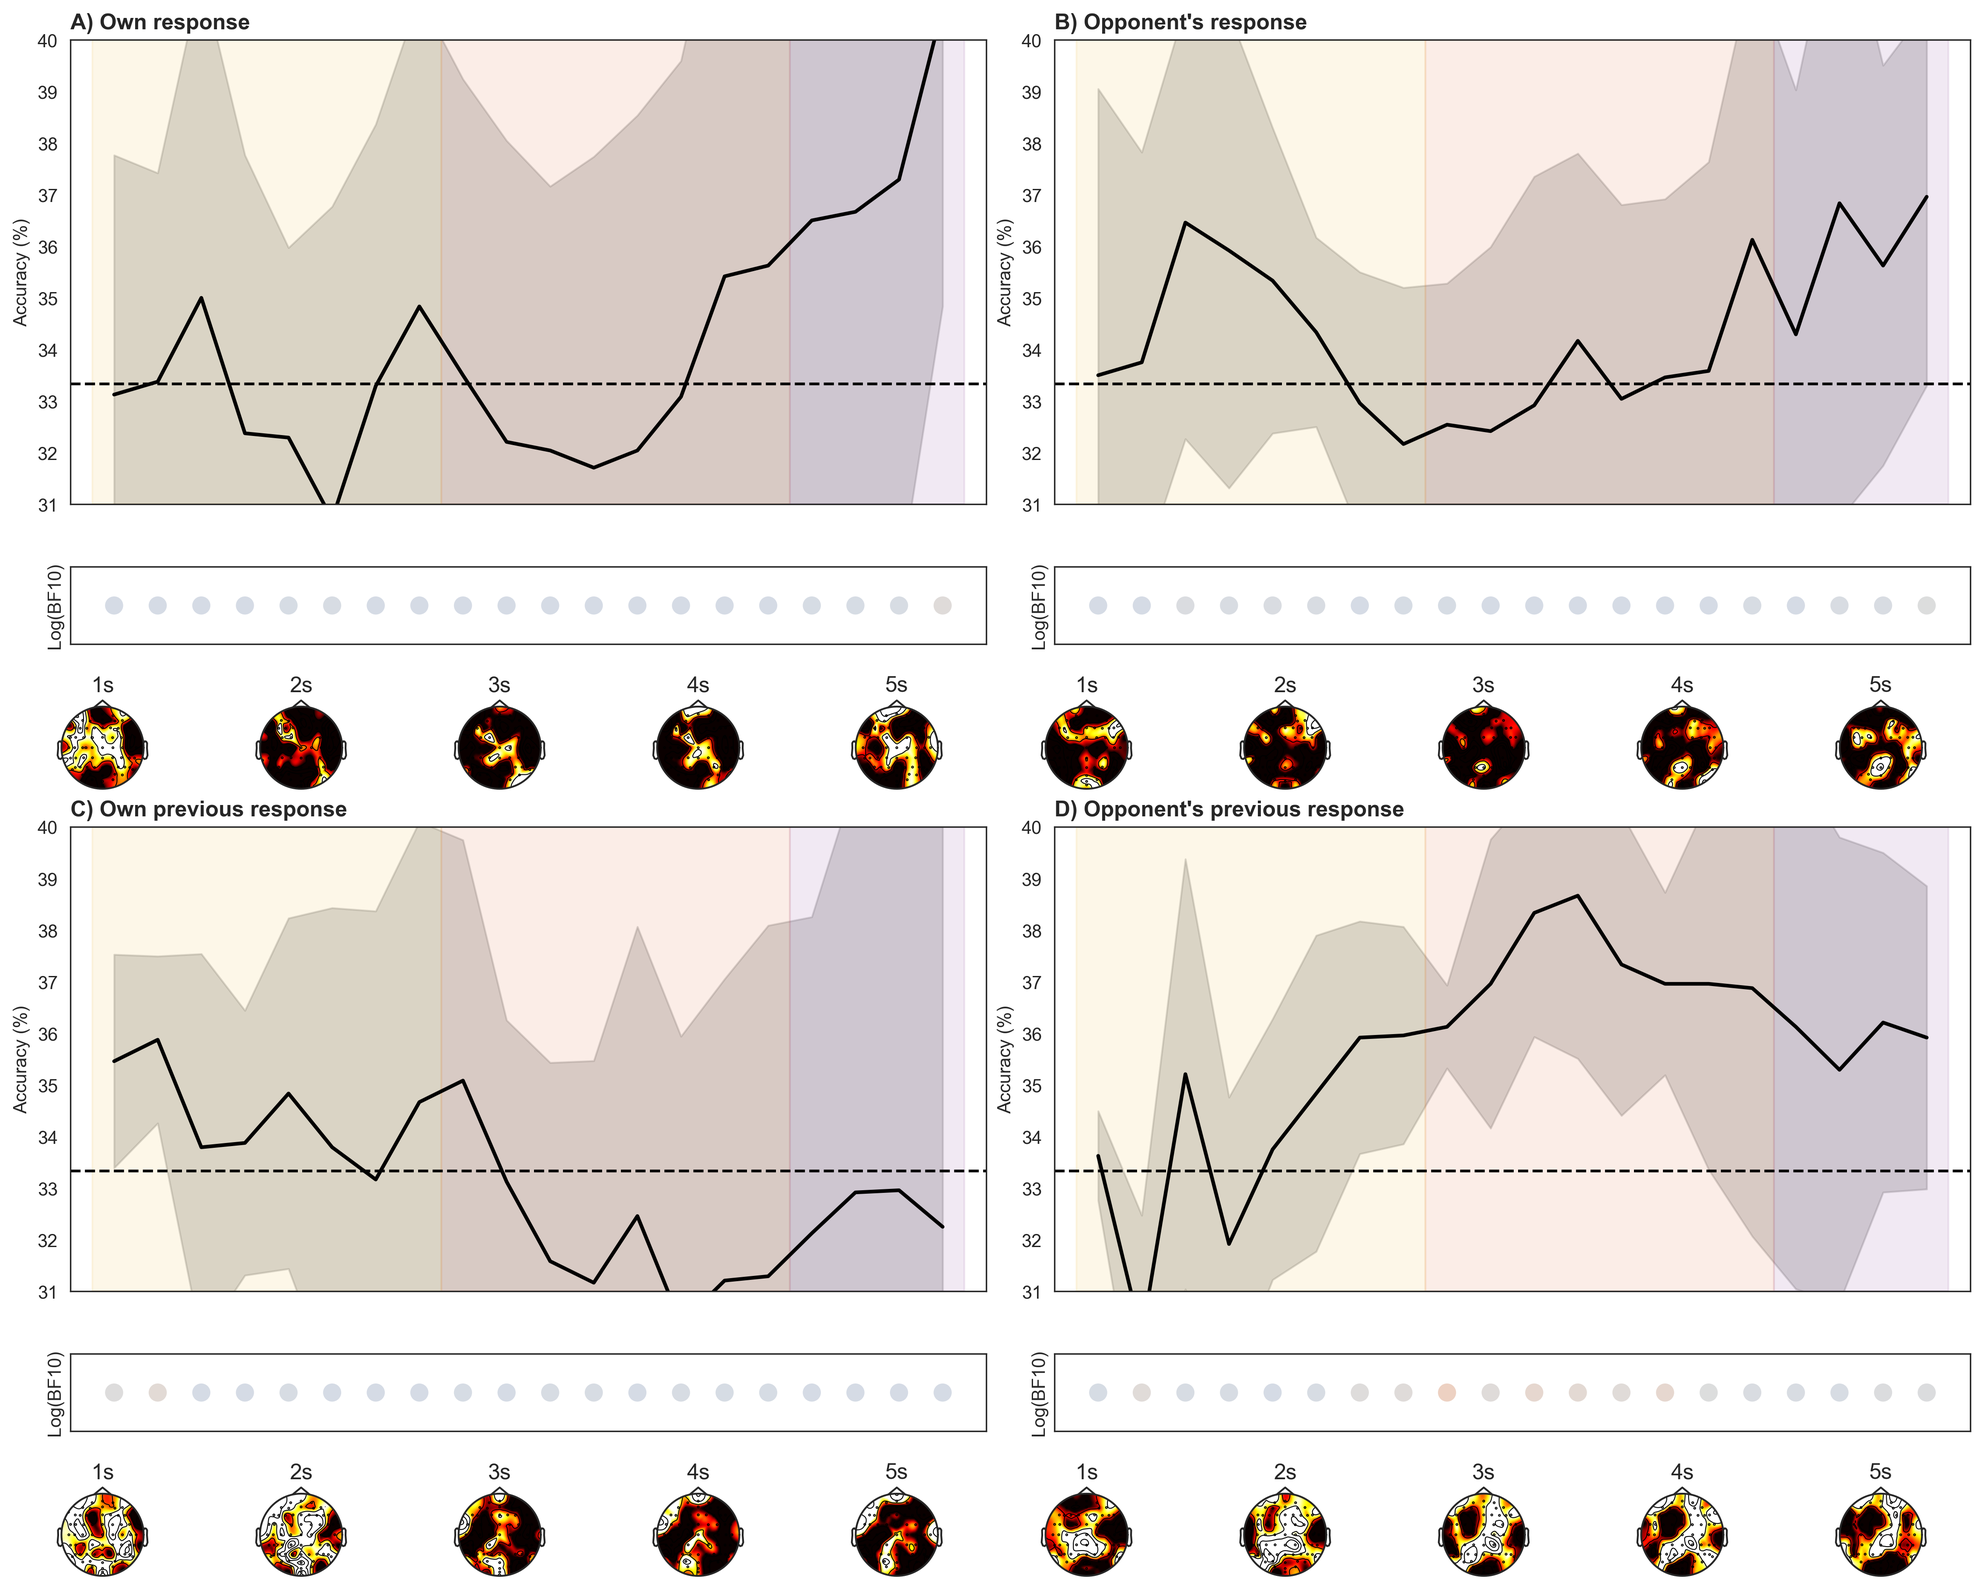
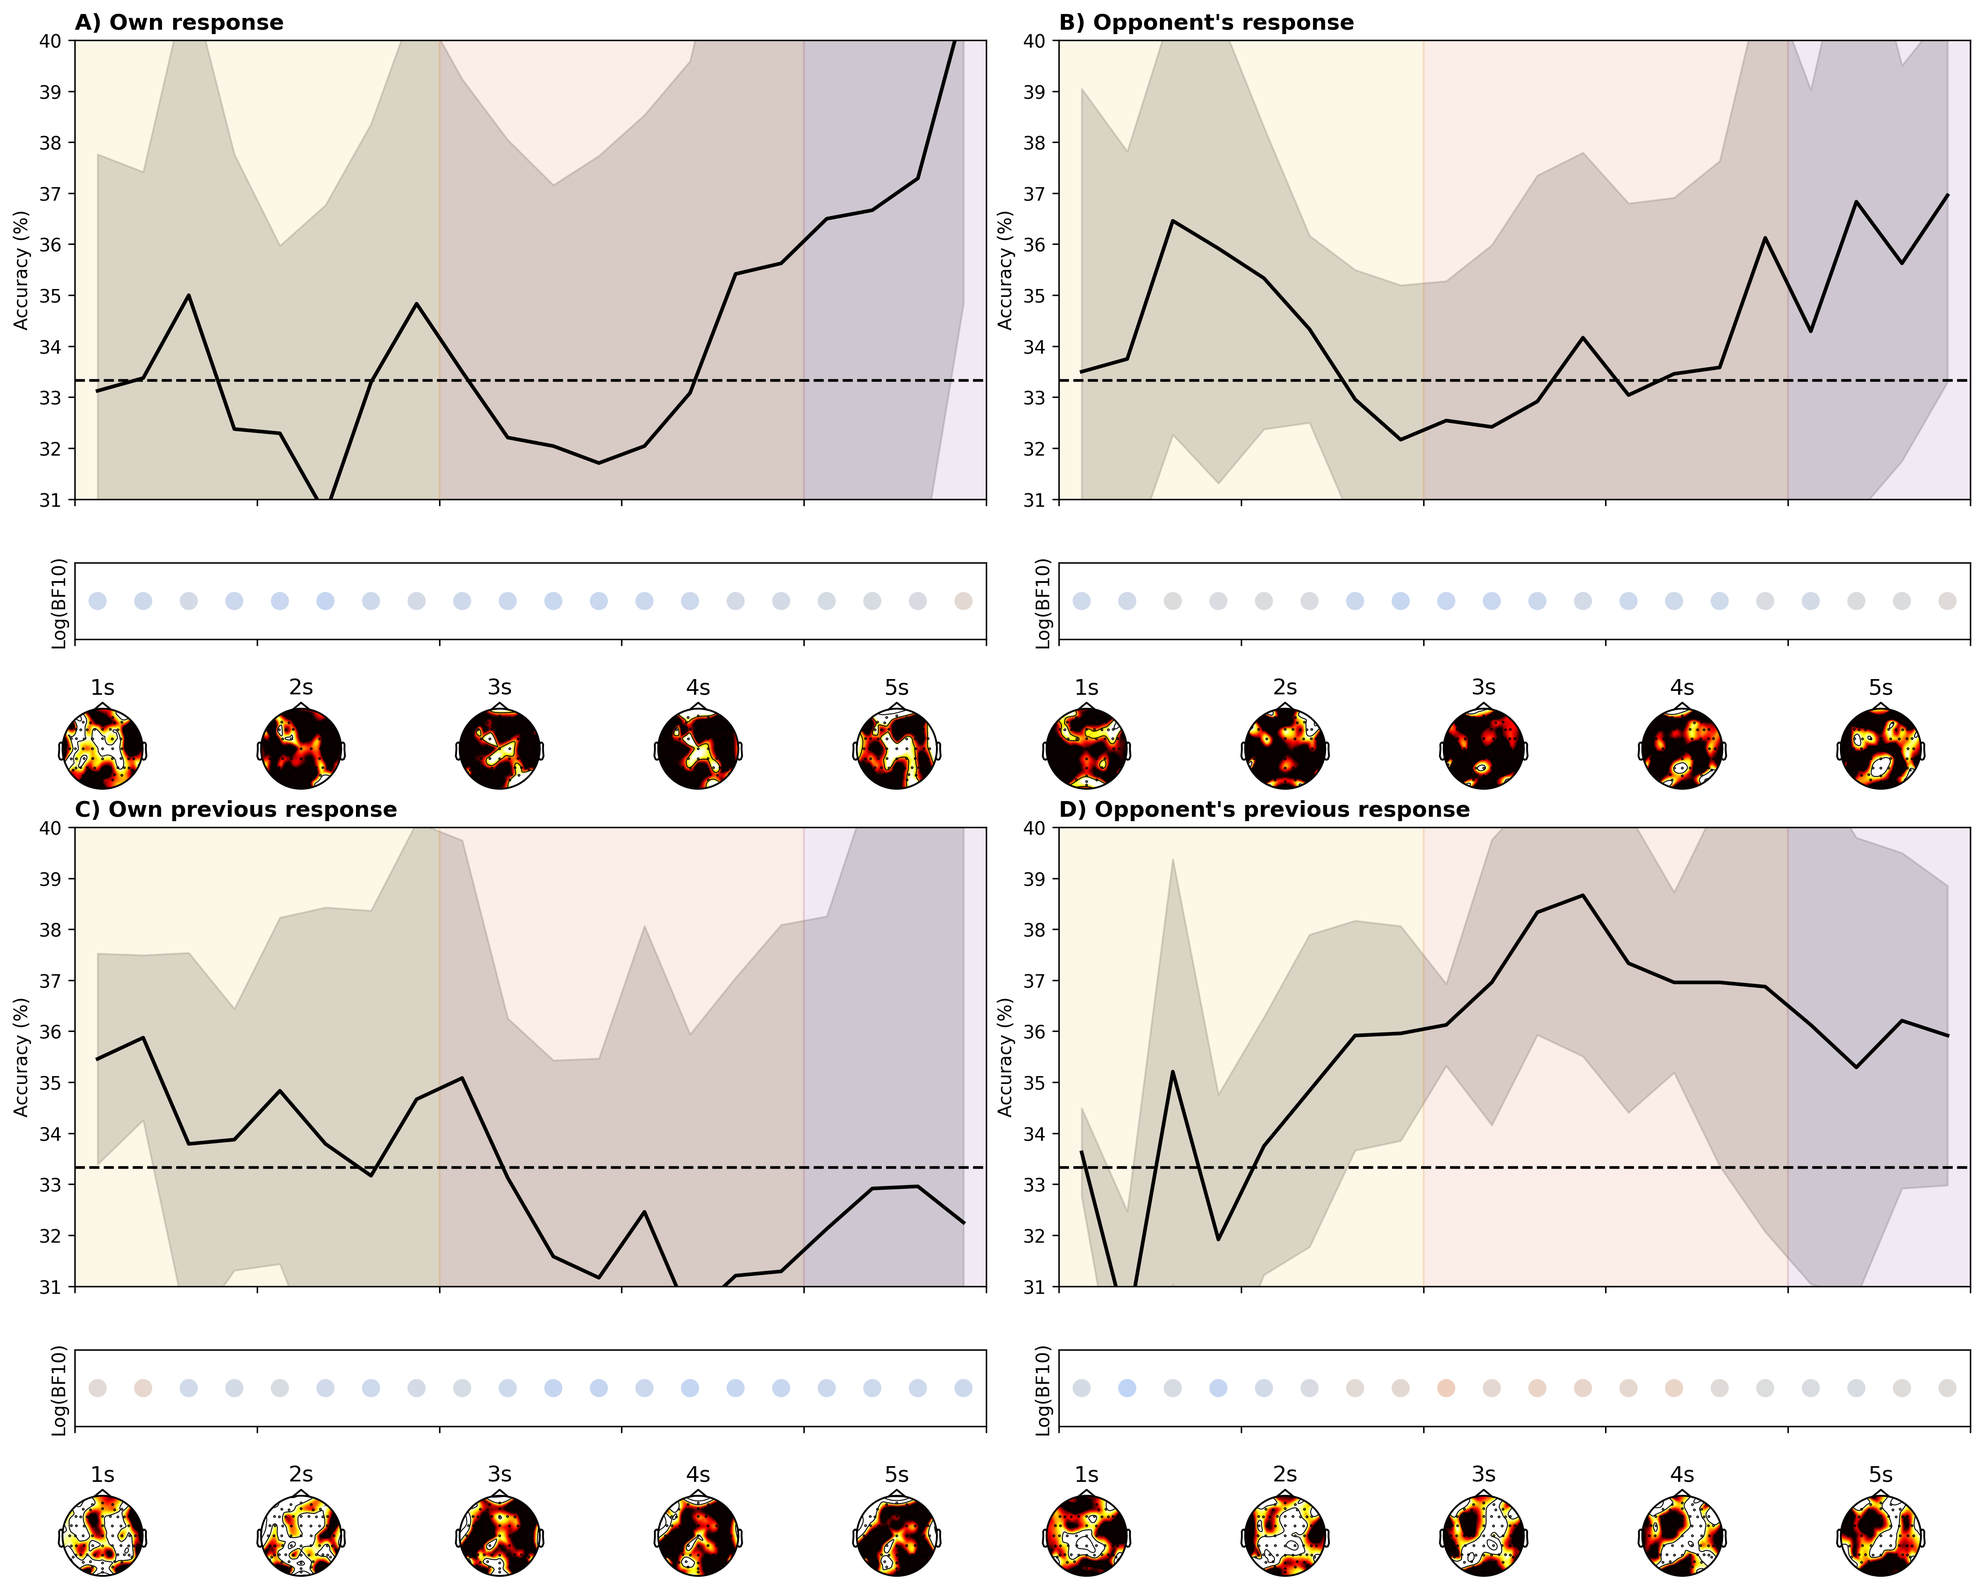
Implemented R/Bayes figures and output

diff --git a/step3b_plot_Fig2_Fig3.py b/step3b_plot_Fig2_Fig3.py
@@ -1,17 +1,39 @@
 """
 Plot Decoding Results and Compute Bayes Factors
-Replicates the 2x2 grid layout, phase shading, and time-bin topographies from the paper.
+Replicates the grid layout, time-bin topographies, and directional Bayes Factors.
+Uses rpy2 with modern conversion; falls back to pingouin if R/BayesFactor not available.
 """
 
 import os
+# Set R_HOME explicitly (adjust path to your R installation)
+os.environ['R_HOME'] = r'C:\Program Files\R\R-4.5.2'  # <-- change if needed
+
 import pickle
 import numpy as np
 import pandas as pd
 import matplotlib.pyplot as plt
 import matplotlib.gridspec as gridspec
-import pingouin as pg
 import mne
-from scipy import stats
+import warnings
+
+# Try to set up rpy2 and test if R is callable
+R_AVAILABLE = False
+try:
+    import rpy2.robjects as robjects
+    from rpy2.robjects.packages import importr
+    from rpy2.robjects import numpy2ri
+    conv = numpy2ri.converter
+
+    # Test if R is actually reachable by running a simple command
+    robjects.r('version')  # should not raise an error
+    # Now try to import BayesFactor
+    bf_pkg = importr('BayesFactor')
+    R_AVAILABLE = True
+    print("R and BayesFactor package found – using exact Bayes factors.")
+except Exception as e:
+    R_AVAILABLE = False
+    print(f"R/BayesFactor not available ({e}). Using pingouin approximation.")
+    import pingouin as pg
 
 path_to_data = 'project/ds006761'
 plot_dir = os.path.join(path_to_data, 'derivatives', 'plots')
@@ -21,173 +43,186 @@ pair_ids = list(range(1, 10)) + list(range(11, 23)) + list(range(25, 35))
 num_tests = 4
 num_time_bins = 20
 
+def calc_bayes_factor(data, mu=1/3, rscale="medium", null_interval="c(0.5, Inf)"):
+    """Exact directional Bayes factor using R's BayesFactor (modern rpy2)."""
+    if not R_AVAILABLE:
+        from scipy import stats
+        t_stat, _ = stats.ttest_1samp(data, mu)
+        return pg.bayesfactor_ttest(t_stat, nx=len(data), r=rscale)
+
+    try:
+        with conv.context():
+            robjects.globalenv['data'] = data
+            robjects.r(f'bf = BayesFactor::ttestBF(x=data, mu={mu}, rscale="{rscale}", nullInterval={null_interval})')
+            bf_val = robjects.r('as.vector(bf[1])')[0]
+        return float(bf_val)
+    except Exception as e:
+        warnings.warn(f"R call failed, falling back to pingouin: {e}")
+        from scipy import stats
+        t_stat, _ = stats.ttest_1samp(data, mu)
+        return pg.bayesfactor_ttest(t_stat, nx=len(data), r=rscale)
+
+def calc_bayes_factor_ind(data_win, data_los, rscale="medium", null_interval="c(-0.5, 0.5)"):
+    """Two-sample Bayes factor for winners vs losers."""
+    if not R_AVAILABLE:
+        from scipy import stats
+        t_stat, _ = stats.ttest_ind(data_win, data_los)
+        return pg.bayesfactor_ttest(t_stat, nx=len(data_win), ny=len(data_los), r=rscale)
+
+    try:
+        with conv.context():
+            robjects.globalenv['data_win'] = data_win
+            robjects.globalenv['data_los'] = data_los
+            robjects.r(f'bf = BayesFactor::ttestBF(x=data_win, y=data_los, rscale="{rscale}", nullInterval={null_interval})')
+            bf_val = robjects.r('as.vector(bf[2])')[0]  # second element = complement of interval
+        return float(bf_val)
+    except Exception as e:
+        warnings.warn(f"R call failed, falling back to pingouin: {e}")
+        from scipy import stats
+        t_stat, _ = stats.ttest_ind(data_win, data_los)
+        return pg.bayesfactor_ttest(t_stat, nx=len(data_win), ny=len(data_los), r=rscale)
+
 def plot_decoding(max_pairs=None):
     pairs_to_run = pair_ids[:max_pairs] if max_pairs is not None else pair_ids
     num_pairs_run = len(pairs_to_run)
     
     all_decoding = np.full((num_pairs_run * 2, num_tests, num_time_bins), np.nan)
     searchlight_all = np.full((num_pairs_run * 2, num_tests, 64, num_time_bins), np.nan)
+    winners_idx, losers_idx = [], []
     
-    winners_idx = []
-    losers_idx = []
-    
-    # Load decoding data and identify winners/losers
     for p_idx, pair in enumerate(pairs_to_run):
-        # Determine Winner/Loser
         events_file = os.path.join(path_to_data, f'sub-{pair:02d}', 'eeg', f'sub-{pair:02d}_task-RPS_events.tsv')
         if os.path.exists(events_file):
             events = pd.read_csv(events_file, sep='\t')
             w1, w2 = sum(events['outcome'] == 2), sum(events['outcome'] == 3)
-            p1_idx = p_idx * 2
-            p2_idx = p_idx * 2 + 1
+            p1_idx, p2_idx = p_idx * 2, p_idx * 2 + 1
             if w1 > w2:
                 winners_idx.append(p1_idx); losers_idx.append(p2_idx)
             else:
-                winners_idx.append(p2_idx); losers_idx.append(p1_idx) # Includes ties gracefully
+                winners_idx.append(p2_idx); losers_idx.append(p1_idx)
         
         for ppt in [1, 2]:
             idx = p_idx * 2 + (ppt - 1)
             file_path = os.path.join(path_to_data, 'derivatives', f'pair-{pair:02d}_player-{ppt}_task-RPS_decoding.pkl')
             if not os.path.exists(file_path): continue
-                
             with open(file_path, 'rb') as f: res = pickle.load(f)
             for t_idx in range(num_tests):
                 all_decoding[idx, t_idx, :] = res['decoding'][t_idx]
                 searchlight_all[idx, t_idx, :, :] = res['searchlight'][t_idx]
 
-    # Pre-calculate Topomap template to avoid errors
     montage = mne.channels.make_standard_montage('biosemi64')
     info = mne.create_info(ch_names=montage.ch_names[:64], sfreq=256, ch_types='eeg')
     info.set_montage(montage)
 
-    # -------------------------------------------------------------
-    # FIGURE 2: ALL SUBJECTS (2x2 Grid)
-    # -------------------------------------------------------------
+    # FIGURE 2
     fig2 = plt.figure(figsize=(15, 12), layout='constrained')
-    # FIX: Added figure=fig2 to silence the layoutgrids warning
     gs2 = gridspec.GridSpec(2, 2, figure=fig2, hspace=0.3, wspace=0.2)
     titles = ['A) Own response', "B) Opponent's response", 'C) Own previous response', "D) Opponent's previous response"]
     
+    # Correct X-axis for time in seconds (centre of each 250 ms bin)
+    x_axis_time = np.linspace(0.125, 4.875, 20) 
+    
     for t in range(num_tests):
         row, col = t // 2, t % 2
-        inner_gs = gridspec.GridSpecFromSubplotSpec(3, 1, subplot_spec=gs2[row, col], height_ratios=[3, 0.5, 0.8], hspace=0.1)
-        
+        inner_gs = gridspec.GridSpecFromSubplotSpec(3, 1, subplot_spec=gs2[row, col],
+                                                     height_ratios=[3, 0.5, 0.8], hspace=0.1)
         ax_main = fig2.add_subplot(inner_gs[0])
         ax_bf = fig2.add_subplot(inner_gs[1], sharex=ax_main)
         
         data_t = all_decoding[:, t, :]
         data_mean = np.nanmean(data_t * 100, axis=0)
         ci = np.nanstd(data_t * 100, axis=0) / np.sqrt(num_pairs_run * 2) * 1.96
-        x_axis = np.arange(1, 21)
         
-        # 1. Main Axis
         ax_main.axhline(33.33, color='k', linestyle='--')
-        ax_main.plot(x_axis, data_mean, 'k-', linewidth=2)
-        ax_main.fill_between(x_axis, data_mean - ci, data_mean + ci, color='gray', alpha=0.3)
-        ax_main.axvspan(0.5, 8.5, color='#EDB120', alpha=0.1) # Phase A (Decision)
-        ax_main.axvspan(8.5, 16.5, color='#D95319', alpha=0.1) # Phase B (Response)
-        ax_main.axvspan(16.5, 20.5, color='#7E2F8E', alpha=0.1) # Phase C (Feedback)
+        ax_main.plot(x_axis_time, data_mean, 'k-', linewidth=2)
+        ax_main.fill_between(x_axis_time, data_mean - ci, data_mean + ci, color='gray', alpha=0.3)
+        ax_main.axvspan(0, 2, color='#EDB120', alpha=0.1) # Decision
+        ax_main.axvspan(2, 4, color='#D95319', alpha=0.1) # Response
+        ax_main.axvspan(4, 5, color='#7E2F8E', alpha=0.1) # Feedback
         ax_main.set_ylim(31, 40)
         ax_main.set_ylabel('Accuracy (%)')
         ax_main.set_title(titles[t], loc='left', fontweight='bold')
-        ax_main.set_xlim(0, 21)
-        ax_main.set_xticks(np.arange(0.5, 21, 4))
+        ax_main.set_xlim(0, 5)
+        ax_main.set_xticks(np.arange(0, 5.1, 1))
         ax_main.set_xticklabels([])
         
-        # 2. BF Axis
-        bfs = np.ones(num_time_bins) # Changed to np.ones to plot grey when skipped
+        bfs = np.ones(num_time_bins)
         for w in range(num_time_bins):
             slice_w = data_t[:, w][~np.isnan(data_t[:, w])]
             if len(slice_w) > 2:
-                t_stat, _ = stats.ttest_1samp(slice_w, 1/3)
-                bf = pg.bayesfactor_ttest(t_stat, nx=len(slice_w), r=0.707)
-                bfs[w] = bf if isinstance(bf, float) else 1.0
+                bfs[w] = calc_bayes_factor(slice_w)
                 
-        log_bfs = np.log10(bfs)
-        sc = ax_bf.scatter(x_axis, [0]*20, c=log_bfs, cmap='coolwarm', vmin=-6, vmax=6, s=80)
+        sc = ax_bf.scatter(x_axis_time, [0]*20, c=np.log10(bfs), cmap='coolwarm', vmin=-8, vmax=8, s=80)
         ax_bf.set_yticks([])
         ax_bf.set_ylabel('Log(BF10)')
         
-        # 3. Topographies (5 bins)
         topo_gs = gridspec.GridSpecFromSubplotSpec(1, 5, subplot_spec=inner_gs[2], wspace=0.05)
         sl_mean = np.nanmean(searchlight_all[:, t, :, :], axis=0)
-        timebins = [(0, 4), (4, 8), (8, 12), (12, 16), (16, 20)] # 1-second chunks
+        timebins = [(0, 4), (4, 8), (8, 12), (12, 16), (16, 20)] 
         
         for idx, (t_start, t_end) in enumerate(timebins):
             ax_topo = fig2.add_subplot(topo_gs[0, idx])
             topo_data = np.nanmean(sl_mean[:, t_start:t_end], axis=1)
-            mne.viz.plot_topomap(topo_data, info, axes=ax_topo, show=False, vlim=(0.33, 0.36), cmap='hot')
+            mne.viz.plot_topomap(topo_data, info, axes=ax_topo, show=False, vlim=(0.33, 0.36), 
+                                 cmap='hot', extrapolate='box', sphere=(0.0, 0.0, 0.0, 0.095))
             ax_topo.set_title(f'{idx+1}s', pad=0)
 
     plt.savefig(os.path.join(plot_dir, 'Figure2.png'), dpi=300, bbox_inches='tight')
-    print("Figure 2 saved.")
 
-    # -------------------------------------------------------------
-    # FIGURE 3: WINNERS VS LOSERS
-    # -------------------------------------------------------------
-    if len(winners_idx) >= 1: # Lowered threshold to plot even with subset testing
+    # FIGURE 3
+    if len(winners_idx) >= 1:
         fig3 = plt.figure(figsize=(15, 12), layout='constrained')
-        # FIX: Added figure=fig3 to silence the layoutgrids warning
         gs3 = gridspec.GridSpec(2, 2, figure=fig3, hspace=0.3, wspace=0.2)
         
         for t in range(num_tests):
             row, col = t // 2, t % 2
-            inner_gs = gridspec.GridSpecFromSubplotSpec(2, 1, subplot_spec=gs3[row, col], height_ratios=[3, 1], hspace=0.1)
+            inner_gs = gridspec.GridSpecFromSubplotSpec(2, 1, subplot_spec=gs3[row, col],
+                                                         height_ratios=[3, 1], hspace=0.1)
             ax_main = fig3.add_subplot(inner_gs[0])
             ax_bf = fig3.add_subplot(inner_gs[1], sharex=ax_main)
             
             data_win = all_decoding[winners_idx, t, :] * 100
             data_los = all_decoding[losers_idx, t, :] * 100
             
-            # 1. Main Axis
             ax_main.axhline(33.33, color='k', linestyle='--')
             for d, c, lbl in zip([data_win, data_los], ['#0072BD', '#77AC30'], ['Winners', 'Losers']):
                 mean_d = np.nanmean(d, axis=0)
                 ci_d = np.nanstd(d, axis=0) / np.sqrt(len(d)) * 1.96
-                ax_main.plot(x_axis, mean_d, color=c, linewidth=2, label=lbl)
-                ax_main.fill_between(x_axis, mean_d - ci_d, mean_d + ci_d, color=c, alpha=0.15)
-                ax_main.scatter(x_axis, mean_d, color=c, s=30)
+                ax_main.plot(x_axis_time, mean_d, color=c, linewidth=2, label=lbl)
+                ax_main.fill_between(x_axis_time, mean_d - ci_d, mean_d + ci_d, color=c, alpha=0.15)
+                ax_main.scatter(x_axis_time, mean_d, color=c, s=30)
                 
-            ax_main.axvspan(0.5, 8.5, color='#EDB120', alpha=0.1)
-            ax_main.axvspan(8.5, 16.5, color='#D95319', alpha=0.1)
-            ax_main.axvspan(16.5, 20.5, color='#7E2F8E', alpha=0.1)
+            ax_main.axvspan(0, 2, color='#EDB120', alpha=0.1)
+            ax_main.axvspan(2, 4, color='#D95319', alpha=0.1)
+            ax_main.axvspan(4, 5, color='#7E2F8E', alpha=0.1)
             ax_main.set_ylim(31, 40)
             ax_main.set_ylabel('Accuracy (%)')
             ax_main.set_title(titles[t], loc='left', fontweight='bold')
             ax_main.legend(loc='lower right')
-            ax_main.set_xlim(0, 21)
+            ax_main.set_xlim(0, 5)
             
-            # 2. BF Axis (3 rows: Winners, Losers, Diff)
             bfs_win, bfs_los, bfs_diff = np.ones(num_time_bins), np.ones(num_time_bins), np.ones(num_time_bins)
             for w in range(num_time_bins):
                 sw = data_win[:, w][~np.isnan(data_win[:, w])] / 100
                 sl = data_los[:, w][~np.isnan(data_los[:, w])] / 100
                 
-                if len(sw) > 2:
-                    t_win, _ = stats.ttest_1samp(sw, 1/3)
-                    bf_w = pg.bayesfactor_ttest(t_win, nx=len(sw), r=0.707)
-                    bfs_win[w] = bf_w if isinstance(bf_w, float) else 1.0
-                    
-                if len(sl) > 2:
-                    t_los, _ = stats.ttest_1samp(sl, 1/3)
-                    bf_l = pg.bayesfactor_ttest(t_los, nx=len(sl), r=0.707)
-                    bfs_los[w] = bf_l if isinstance(bf_l, float) else 1.0
-                    
-                if len(sw) > 2 and len(sl) > 2:
-                    t_diff, _ = stats.ttest_ind(sw, sl)
-                    bf_d = pg.bayesfactor_ttest(t_diff, nx=len(sw), ny=len(sl), r=0.707)
-                    bfs_diff[w] = bf_d if isinstance(bf_d, float) else 1.0
+                if len(sw) > 2: bfs_win[w] = calc_bayes_factor(sw)
+                if len(sl) > 2: bfs_los[w] = calc_bayes_factor(sl)
+                if len(sw) > 2 and len(sl) > 2: bfs_diff[w] = calc_bayes_factor_ind(sw, sl)
 
-            ax_bf.scatter(x_axis, [2]*20, c=np.log10(bfs_win), cmap='coolwarm', vmin=-6, vmax=6, s=80)
-            ax_bf.scatter(x_axis, [1]*20, c=np.log10(bfs_los), cmap='coolwarm', vmin=-6, vmax=6, s=80)
-            ax_bf.scatter(x_axis, [0]*20, c=np.log10(bfs_diff), cmap='coolwarm', vmin=-6, vmax=6, s=80)
+            ax_bf.scatter(x_axis_time, [2]*20, c=np.log10(bfs_win), cmap='coolwarm', vmin=-6, vmax=6, s=80)
+            ax_bf.scatter(x_axis_time, [1]*20, c=np.log10(bfs_los), cmap='coolwarm', vmin=-6, vmax=6, s=80)
+            ax_bf.scatter(x_axis_time, [0]*20, c=np.log10(bfs_diff), cmap='coolwarm', vmin=-6, vmax=6, s=80)
             
             ax_bf.set_yticks([0, 1, 2])
             ax_bf.set_yticklabels(['Diff', 'Losers', 'Winners'])
             ax_bf.set_ylim(-0.5, 2.5)
 
         plt.savefig(os.path.join(plot_dir, 'Figure3.png'), dpi=300, bbox_inches='tight')
-        print("Figure 3 saved.")
 
 if __name__ == '__main__':
-    plot_decoding()
+    import argparse
+    parser = argparse.ArgumentParser()
+    parser.add_argument('--test_pairs', type=int, default=None)
+    args = parser.parse_args()
+    plot_decoding(max_pairs=args.test_pairs)
